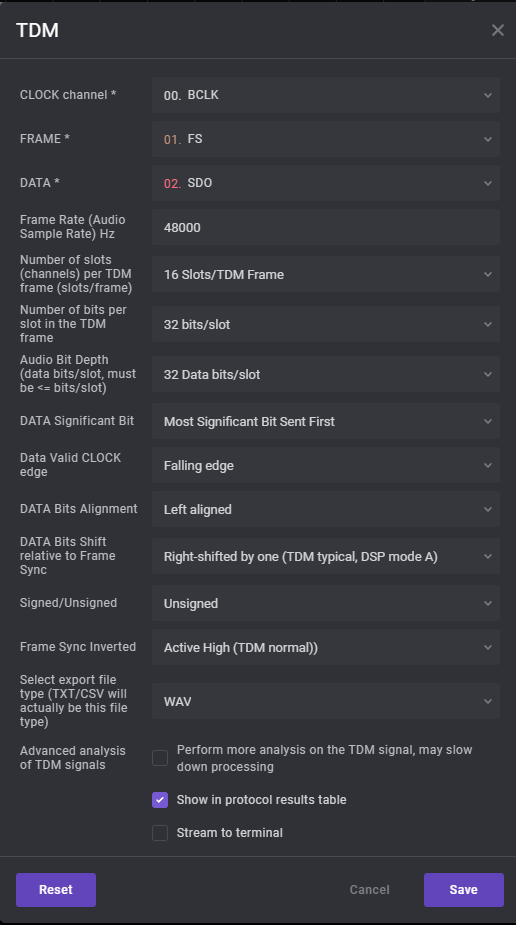
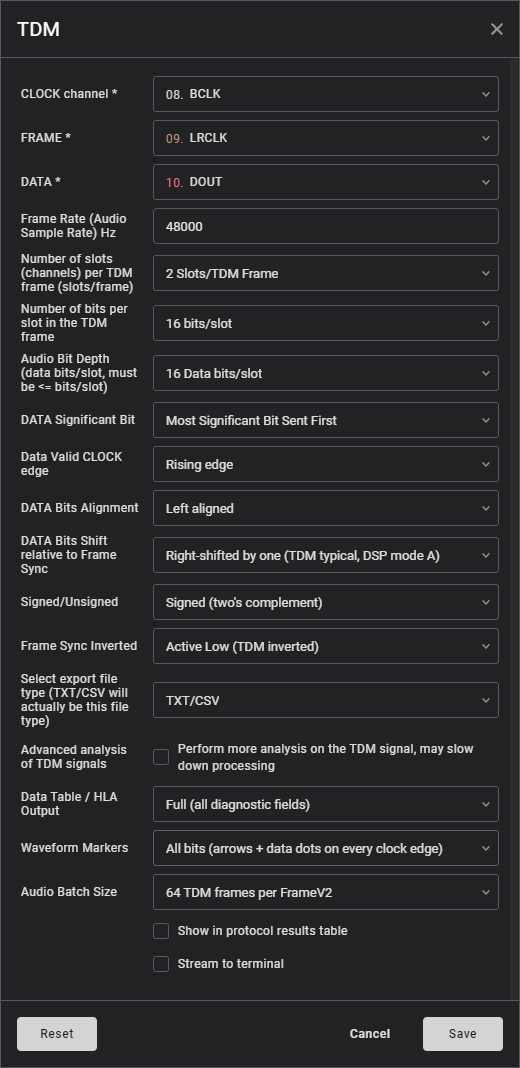
docs: add streaming images and quick start guide to README
Update README with screenshots for the full audio streaming workflow:
- Updated analyzer settings showing Audio Batch Size dropdown
- HLA progress at 100% (batch mode working) vs 54% (not keeping up)
- HLA Audio Stream settings dialog
- Audio bridge GUI connected and playing
- Step-by-step streaming setup with annotated screenshots

Replace the minimal HLA Audio Stream section with a visual quick start
guide showing the 4-step setup flow: configure LLA batch mode, add HLA,
launch bridge GUI, start capture.

Add v2.5.0 migration guide entry for Audio Batch Mode.
Update v2.4.0 migration guide to reference batch mode.

diff --git a/README.md b/README.md
@@ -18,7 +18,7 @@ A Saleae Logic 2 analyzer for decoding TDM audio data — from raw bitclock and 
   - [Exporting data as a wave file](#exporting-data-as-a-wave-file)
 - [High Level Analyzers (HLAs)](#high-level-analyzers-hlas)
   - [HLA: TDM WAV Export](#hla-tdm-wav-export)
-  - [HLA: TDM Audio Stream](#hla-tdm-audio-stream)
+  - [HLA: TDM Audio Stream](#hla-tdm-audio-stream) (with streaming quick start)
 - [Known Limitations](#known-limitations)
 - [Install instructions](#install-instructions)
 - [Building from source](#building-from-source)
@@ -129,7 +129,11 @@ Three analyzer settings control the speed/detail tradeoff:
 
 ### Audio Batch Mode (for real-time streaming)
 
-Logic 2's HLA pipeline can process approximately 50,000 decode() calls per second. Without batching, stereo 48kHz I2S generates 96,000 calls/sec (one per slot) - only ~54% of real-time. Audio Batch Mode packs N TDM frames into a single FrameV2 with a PCM byte array, dramatically reducing calls:
+Logic 2's HLA pipeline can process approximately 50,000 decode() calls per second. Without batching, stereo 48kHz I2S generates 96,000 calls/sec (one per slot) - only ~54% of real-time:
+
+![HLA not keeping up - 54% without batching](pictures/hla_not_keeping_up.png)
+
+Audio Batch Mode packs N TDM frames into a single FrameV2 with a PCM byte array, dramatically reducing calls:
 
 | Batch Size | Stereo 48kHz calls/sec | Real-time? |
 |----------:|----------------------:|:----------:|
@@ -165,6 +169,10 @@ Logic 2's HLA pipeline can process approximately 50,000 decode() calls per secon
 | 128-channel 192kHz | 512 | 1024 |
 
 The formula: `minimum batch = ceil(sample_rate * channels / 50000)`, rounded up to the next power of 2. The "recommended" column doubles the minimum for headroom. Higher batch sizes add negligible latency (batch=64 at 48kHz = 1.3ms) and reduce CPU overhead further.
+
+With batching enabled, the HLA progress indicator should show 100%:
+
+![HLA at 100% with batch mode enabled](pictures/batch_mode_100pct.png)
 
 ### Decode speed settings
 
@@ -256,25 +264,39 @@ See the [TDM WAV Export README](hla-wav-export/README.md) for full documentation
 ## HLA: TDM Audio Stream
 
 Streams selected TDM slots as live PCM audio over TCP. A companion CLI tool
-and GUI connect to the stream and play it through any audio output device —
+and GUI connect to the stream and play it through any audio output device -
 hear decoded TDM audio in real time. Note: requires a standard (non-looping)
-capture — see [Known Limitations](#known-limitations).
+capture - see [Known Limitations](#known-limitations).
 
 See the [TDM Audio Stream README](hla-audio-stream/README.md) for full
 documentation, platform-specific setup, test harness, and debugging tips.
 
-**Quick start:**
+**Quick start - live audio streaming:**
 
-```bash
-# Install the companion tool (from the repo root or release zip root)
-pip install tools/tdm-audio-bridge/
+1. **Configure the LLA** with Audio Batch Size set to 64 (or higher for many channels):
 
-# Launch the GUI (or use the CLI: tdm-audio-bridge listen)
-tdm-audio-bridge gui
-```
+   ![LLA settings with batch mode](pictures/streaming_setup_1.png)
 
-![GUI — disconnected](hla-audio-stream/pictures/gui_disconnected.png)
-![GUI — playing](hla-audio-stream/pictures/gui_playing.png)
+2. **Add the Audio Stream HLA** on top of the TDM LLA. Configure the slots to stream, TCP port, and output bit depth:
+
+   ![HLA Audio Stream settings](pictures/hla_audio_stream_settings.png)
+
+3. **Install and launch the companion tool:**
+
+   ```bash
+   pip install tools/tdm-audio-bridge/
+   tdm-audio-bridge gui
+   ```
+
+   Or double-click `tools/tdm-audio-bridge/launch-gui.bat` (Windows) or run `./launch-gui.sh` (macOS/Linux).
+
+4. **Start a live capture** in Logic 2. The bridge GUI will connect and begin playing audio:
+
+   ![Live streaming setup](pictures/streaming_setup.png)
+
+   ![Audio bridge GUI - playing](pictures/bridge_gui_playing.png)
+
+**Important:** The HLA progress indicator must show **100%** for clean streaming. If it shows less (e.g., 54%), increase the Audio Batch Size in the LLA settings. See [Audio Batch Mode](#audio-batch-mode-for-real-time-streaming) for recommended values.
 
 # Known Limitations
 
@@ -385,16 +407,26 @@ sudo sysctl -w kernel.yama.ptrace_scope=0
 
 # Migration Guide
 
+## v2.5.0 — Audio Batch Mode for real-time streaming
+
+New "Audio Batch Size" setting enables real-time audio streaming at stereo
+48kHz and above. Set to 64 for most configurations. When enabled, the LLA
+packs N TDM frames into a single FrameV2 with PCM data, reducing HLA decode
+calls from 96,000/sec to 750/sec (at batch=64). Existing captures default
+to Off (batch=0) with no behavior change.
+
+See [Audio Batch Mode](#audio-batch-mode-for-real-time-streaming) for the
+full configuration guide and recommended batch sizes.
+
 ## v2.4.0 — Performance tuning and OOM fix
 
 Two new analyzer settings control the decode speed/detail tradeoff. Existing
 captures will use the default (Full + All markers), so no action is needed
 for backward compatibility.
 
-**For realtime audio streaming users:** Set "Data Table / HLA Output" to
-Minimal and "Waveform Markers" to Slot boundaries. Also disable "Show in
-data table" and "Stream to terminal" (right-click analyzer in sidebar).
-See [Performance Tuning](#performance-tuning) for details.
+**For realtime audio streaming users:** Set "Audio Batch Size" to 64 and
+disable "Show in data table" and "Stream to terminal" (right-click analyzer
+in sidebar). See [Performance Tuning](#performance-tuning) for details.
 
 ## v2.1.0 — FrameV2 schema overhaul
 
